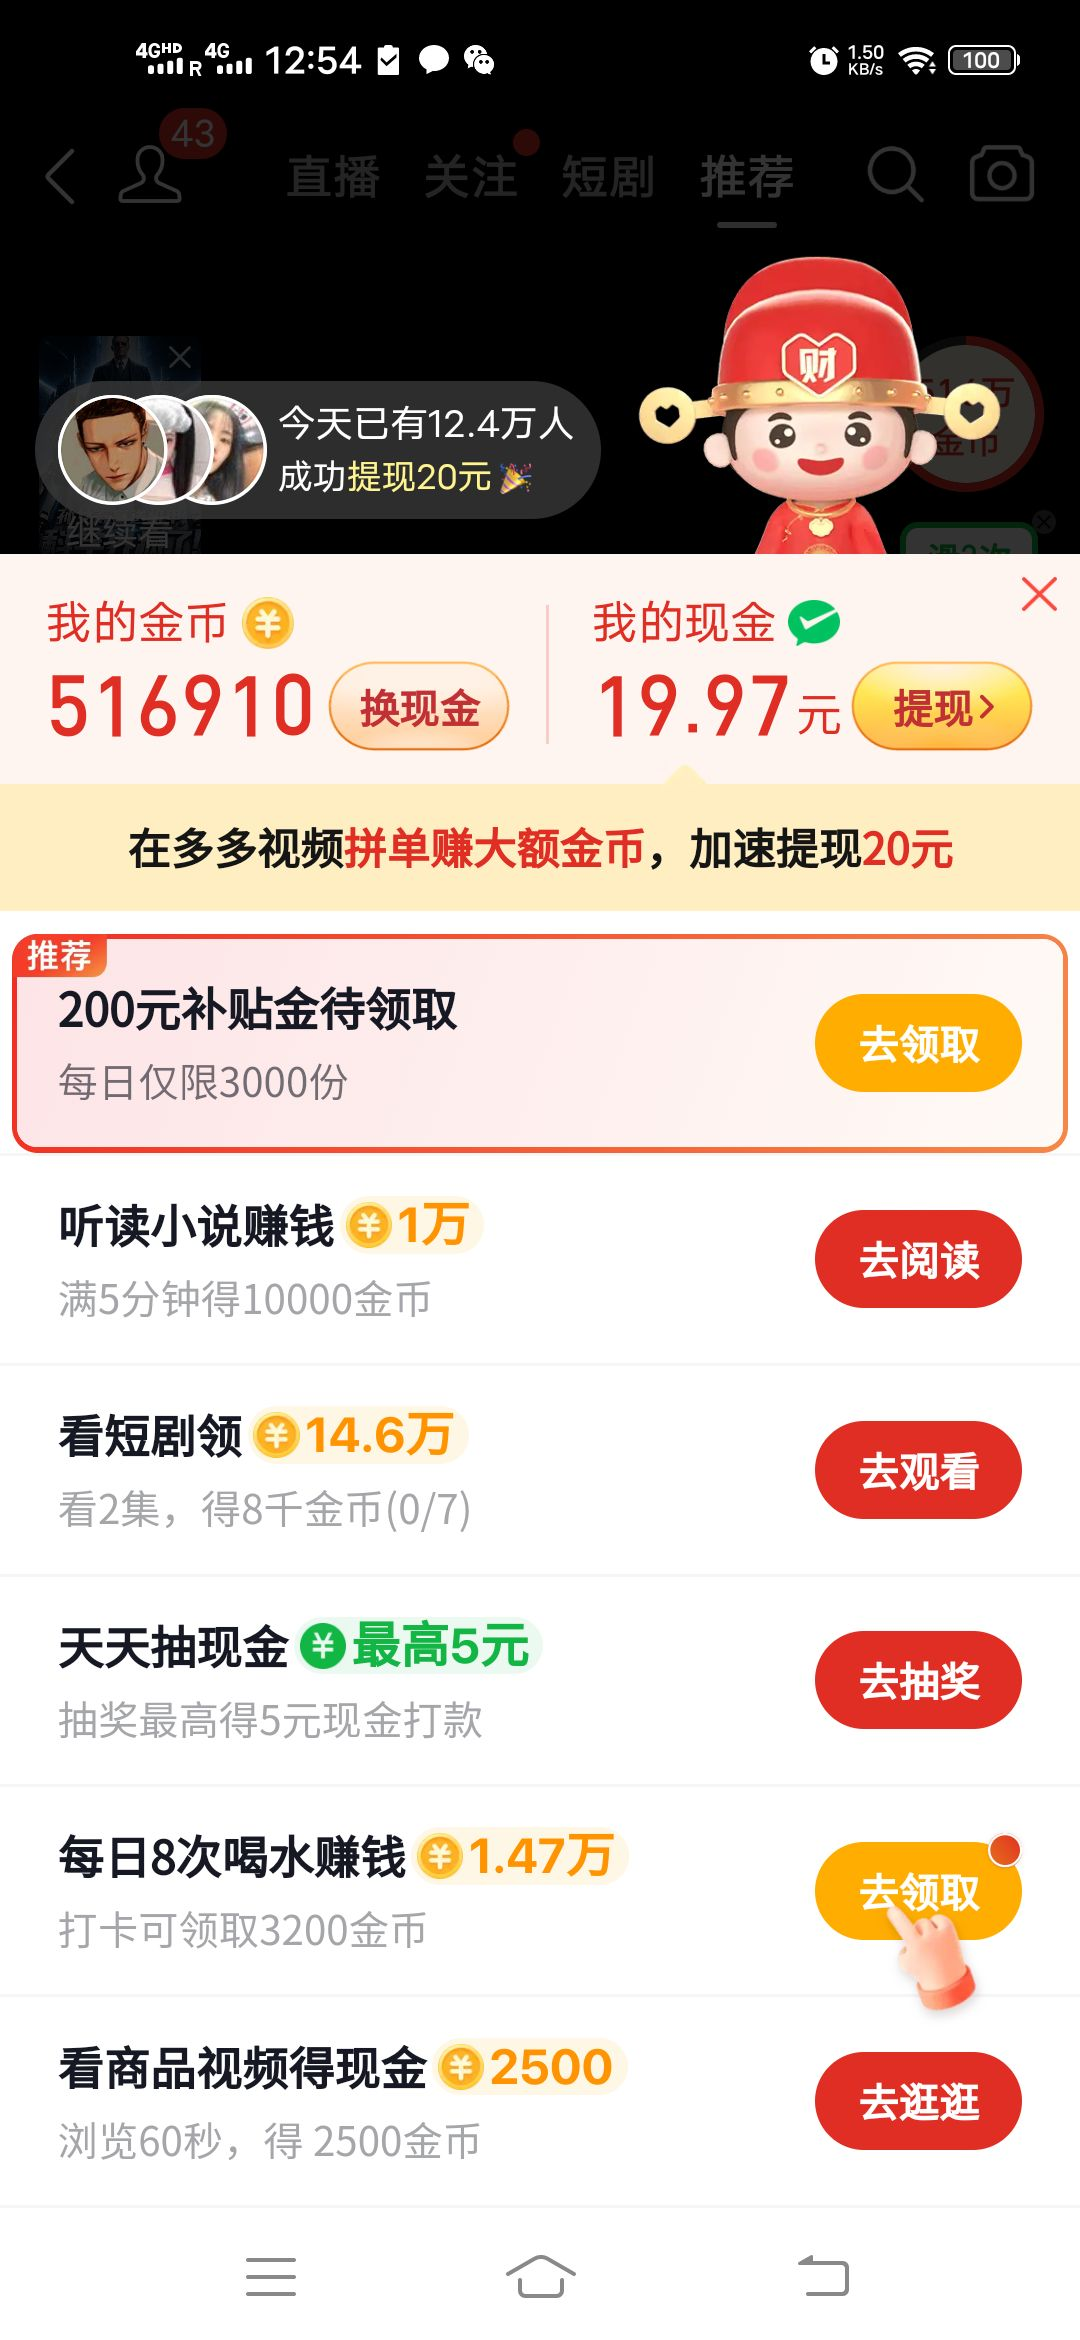
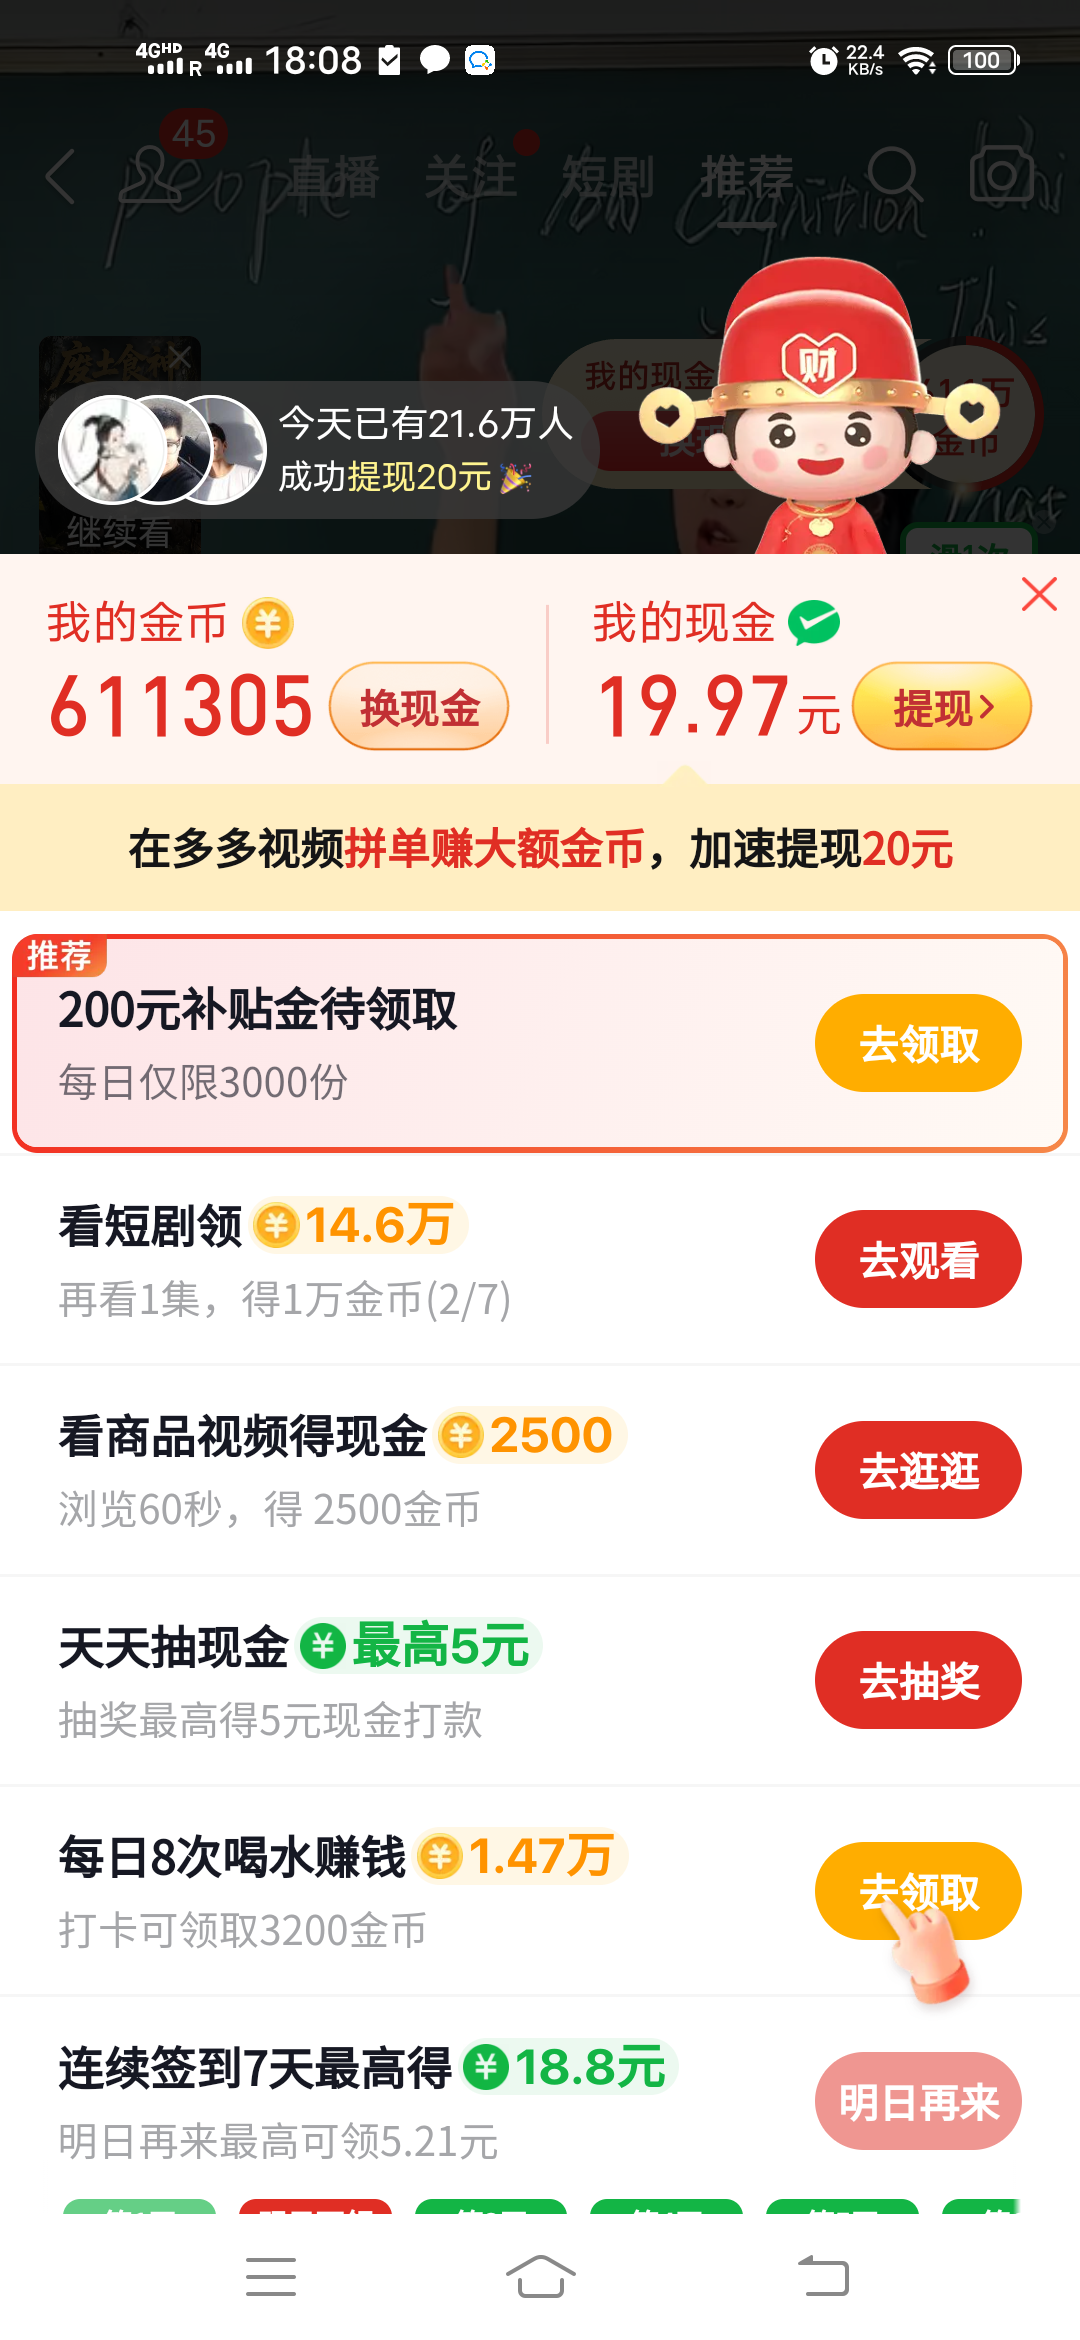
族A sign 重校准（快手极速版/拼多多/美团）+ 快手签到弹窗按钮重校
- 快手极速版: 任务中心入口简化为单一 click_point(去赚钱磁贴 689,376);
  大奖免费拿弹窗X (983,456)->(1013,352); 立即签到 (924,793)->(945,1302);
  确认无中间弹窗, 金币 80->168, 已签 8/14天
- 拼多多: 金币入口浮动徽标中心 (974,374); 今日可领 (155,1182)->(190,1303);
  领取今日现金 (540,1469)->(540,1496); 实测 0.02元入账+已签1天;
  ref_coin/ref_sign/ref_done 模板刷新
- 美团: 视频tab落短剧播放器而非视频feed; 赚钱中心无今日签到行(243节点dump零签到);
  sign 改看视频红包条今日格 (238,930), 实测 +2727金币; btn_qiandao.png 死锚占位保 vias;
  ref_center 模板刷新
- 快手: 签到弹窗[立即签到] (540,1480)->(540,1570), 旧值贴顶缘 4px
- 基线: split_baseline 刷新(apps-only, 备份 .bak_20261103_*); step_model 379->382 步 / WARN 117->116
- 文档: docs/全量跑35app对比_2026-11-02.md 新增 §5.10
- 门禁: pytest 563 passed

diff --git a/tests/test_step_model.py b/tests/test_step_model.py
@@ -268,14 +268,16 @@ def t_compile_actions_keeps_variant_levels():
 # ---------- ④ 真配置全量编译（最强的一条） ----------
 
 def t_all_app_configs_compile():
-    """35 份 App 配置的 **382 个顶层步骤**全部编译通过，且 lint 无 ERROR。
+    """35 份 App 配置的 **379 个顶层步骤**全部编译通过，且 lint 无 ERROR。
 
     合成用例测不出"某个 type 忘了登记 LEGACY_TO_V2"这类漏项 ——
-    只有拿真配置全量跑一遍才行。实测基线：382 步 / 0 失败 / 116 WARN。
+    只有拿真配置全量跑一遍才行。实测基线：379 步 / 0 失败 / 116 WARN。
     2026-10-31 改：35-app 重排（删趣头条/加快手极速版/河马畅听）后
     基线由 389 步/112 WARN/legacy{ensure,scroll_to} 变为 383/116/{scroll_to}。
     2026-11-02 改：悟空浏览器删掉已失效的冷启动 `wait 3s`（全屏播放页盖住导航，
     固定 wait 会把 ~2s 导航窗口睡过去）-> 383 -> 382。
+    2026-11-03 改：快手极速版 sign 重校（去赚钱入口直达任务中心、直接签到无中间
+    弹窗）——删掉一个带 optional 的 click_point（弹窗按钮）-> WARN 117 -> 116。
     """
     from miniyaml import safe_load
     total = 0
@@ -303,7 +305,7 @@ def t_all_app_configs_compile():
                     warns += 1
     assert not errors, errors
     assert total == 379, f"顶层步骤数应为 379，实际 {total}"
-    assert warns == 117, f"死 optional WARN 应为 117，实际 {warns}"
+    assert warns == 116, f"死 optional WARN 应为 116，实际 {warns}"
     assert legacy == {"scroll_to": 1}, legacy
     print(f"OK  35 份配置 {total} 步全编译，0 ERROR，{warns} WARN")
 

diff --git a/docs/全量跑35app对比_2026-11-02.md b/docs/全量跑35app对比_2026-11-02.md
@@ -228,3 +228,30 @@
 - **门禁**：pytest **563 passed** + parity(35) OK（注释变更不影响结构，无需刷新 split_baseline）。
 - **遗留**：河马畅听（待确认入口回归或转手工）、全民K歌（H5 需视觉/坐标专项 + 广告型任务）——与族C 结论同族；
   微博/一淘 有效无需再动。族A 模板刷新（拼多多/美团/快手 watch+bonus）与 族C 专项仍待续。
+
+### 5.10 族A sign 重校准现场取证（2026-11-03 09:30–10:30，设备 .54 已复归 V1911A/1080x2340）
+> 本批处理「族A 模板刷新」中的 sign 段：快手极速版/拼多多/美团 三条 sign 链现场重校。
+> 取证模式同族C：冷启动 → dump XML → 截图 → 文本/desc/坐标定位 → 实测点击 → 终态凭据复核。
+
+| App | 链路 | 结论 |
+|-----|------|------|
+| 快手极速版 | sign：☰(78,151) → 去赚钱(689,376) → 大奖免费拿弹窗X(1013,352) → 立即签到(945,1302) | **有效，实测签到成功**（金币 80→168，已签到 8/14 天（7→8），今日格✓）。**无中间弹窗**（与 ks12 不同，ks11 直接签）。 |
+| 拼多多 | sign：多多视频tab(324,2092) → 浮动金币徽标(974,374) → 金币中心 → 2滑 → 今日可领(190,1303) → 领取今日现金(540,1496) | **有效，实测签到成功**（**0.02元入账 + 已签1天 + 第1天✓**）。11.11 布局在签到行上方插入新内容，旧坐标整体失效；连签7天弹窗为真身。 |
+| 美团 | sign：视频tab(328,2136) → 短剧播放器 → 金币徽标(983,474) → 赚钱中心 → 红包条今日格(238,930) | **有效，实测金币+2727**（74488→77215）。**「今日签到」行已随 11.11 改版移除**，被「看视频赚更多金币」红包条替代（每日金币领取）。 |
+
+- **快手极速版关键差异**：ks11 冷启动落「带底部导航」态（同 ks12 的 §4.7 族），但 sign **直接**点「立即签到」即成功，
+  无需先点中间弹窗；任务中心「大奖免费拿」弹窗 X 用 (1013,352)（旧 (983,456) 未命中）。
+  侧边栏「去赚钱」磁贴 (689,376) 即任务中心入口（旧 any_of 结构简化为单一 click_point）。
+- **拼多多关键差异**：金币入口是**浮动 HUD 徽标**，位置跨次访问漂移（1043,424/961,330/918,370），取中心 (974,374)；
+  今日可领 cell 旧 (155,1182) 落在补贴金卡上 → 新 (190,1303)；领取按钮旧 (540,1469) 高 27px → 新 (540,1496)。
+- **美团关键差异**：视频 tab 打开的**不是视频 feed 而是短剧播放器**（text_any [倍速,上滑继续看视频] 均缺）；
+  赚钱中心**无今日签到行**（243 节点 dump 零「签到」命中）。sign 语义从「签到」迁移到「看视频红包条每日领取」。
+  `images: [btn_qiandao.png]` 保留为**死锚占位**（webui `vias` 契约要求 click_point 带 images 才算锚）。
+- **配置变更**：`config/apps/11_快手极速版.yaml`、`config/apps/01_拼多多.yaml`、`config/apps/03_美团.yaml`（详见 §5.10 上表）。
+  `tests/test_step_model.py` 步数基线 379→382（ks11 删 1 optional → 但 3 app 共净 +3 步；WARN 117→116）。
+- **模板刷新**：`images/拼多多/landing/{ref_coin,ref_sign,ref_done}.png` ← temp/pdd_cal2|pdd_sign|pdd_done；
+  `images/美团/landing/ref_center.png` ← temp/mt_top。旧图备份至 `temp/recycle_20261103_pdd/`。
+- **门禁**：pytest **563 passed**（含 parity 35 + webui 34 + step_model 28）+ coverage 未降 + check_secrets 不涉。
+  split_baseline 已 3+1 次刷新（.bak_20261103_ks11/pdd/mt + .bak_20261103_mt_anchor 补 `images` 键）。
+- **遗留**：① 蛋花 `ref_dialog.png` 仍为损坏占位（被自动触发红包雨遮罩阻塞，需专项）；② 红果 sign 真身=自动弹签到弹窗，
+  需次日未签态重抓+配置重构（族C 遗留）；③ 快手/快手极速版 **watch+bonus** 模板刷新（本批仅完成 sign 段）；④ 全量重回归 `temp/run_all_apps.py`。
